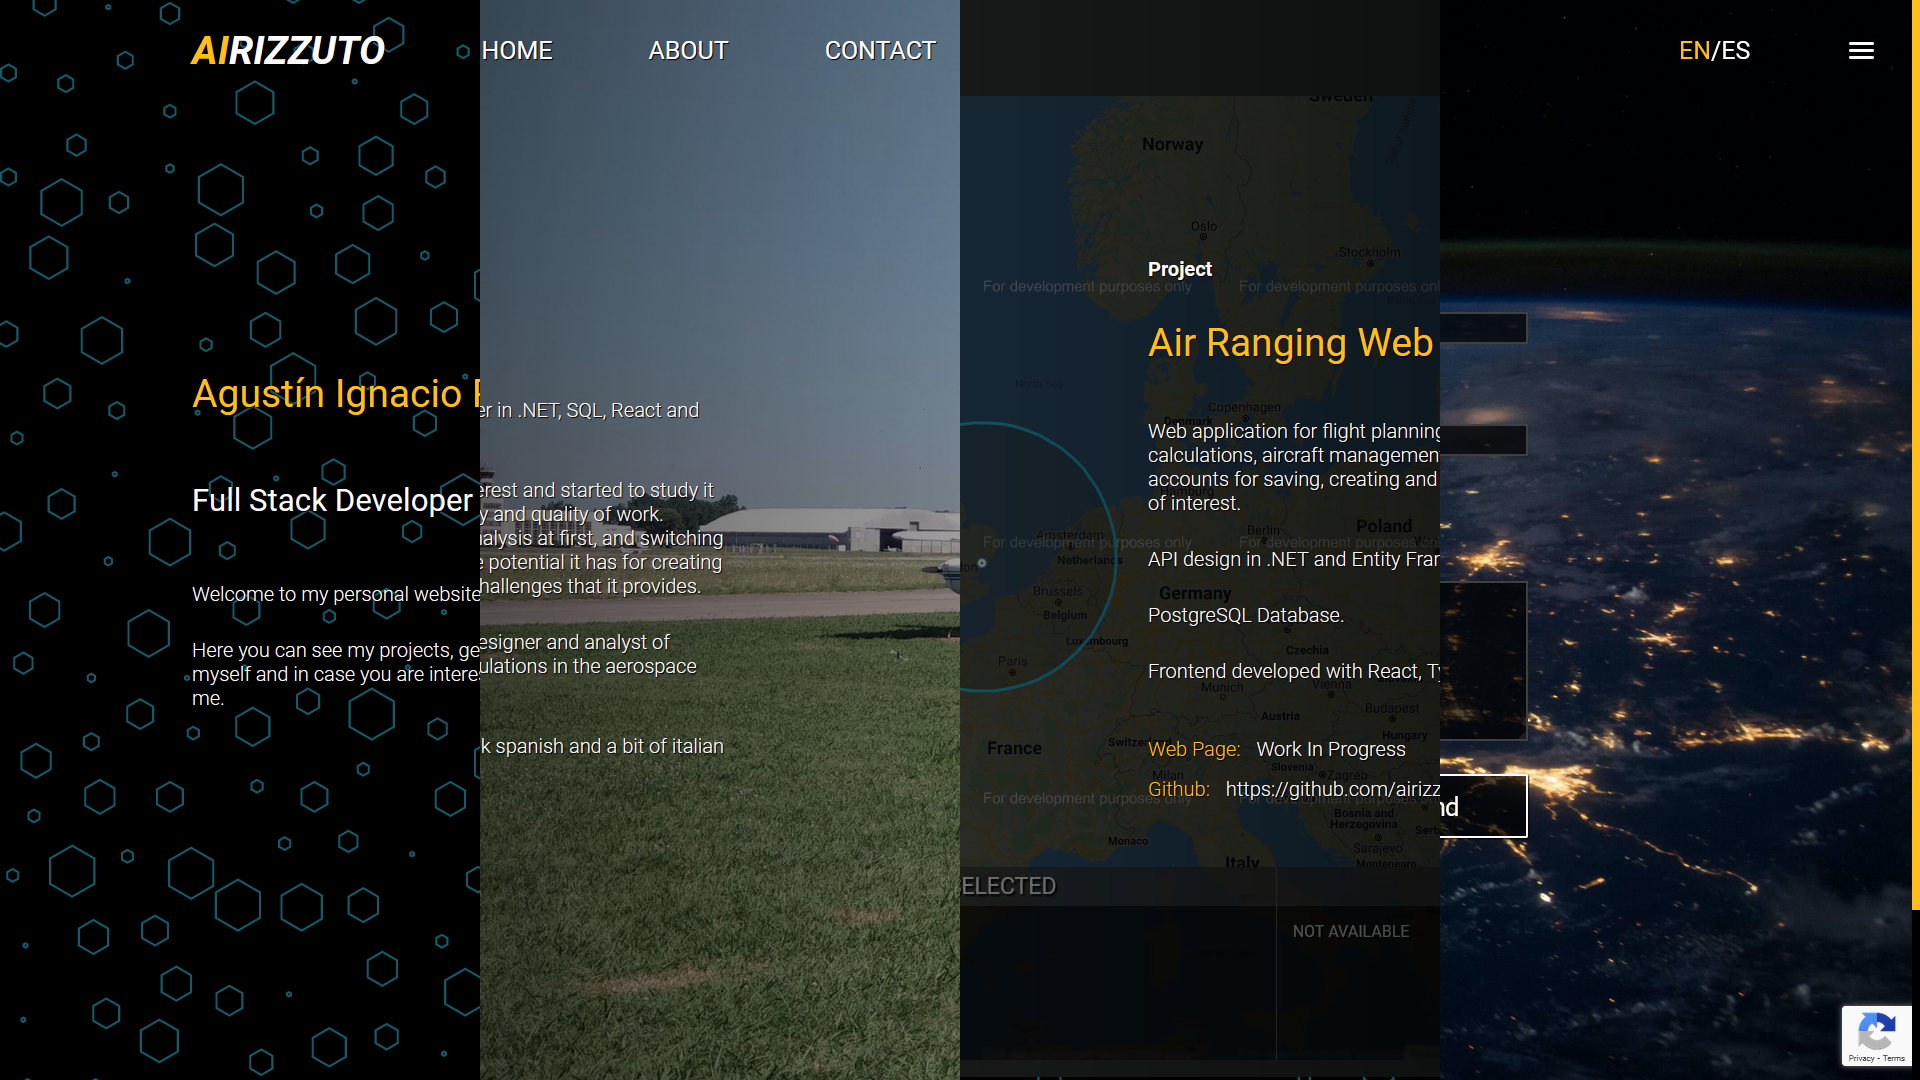
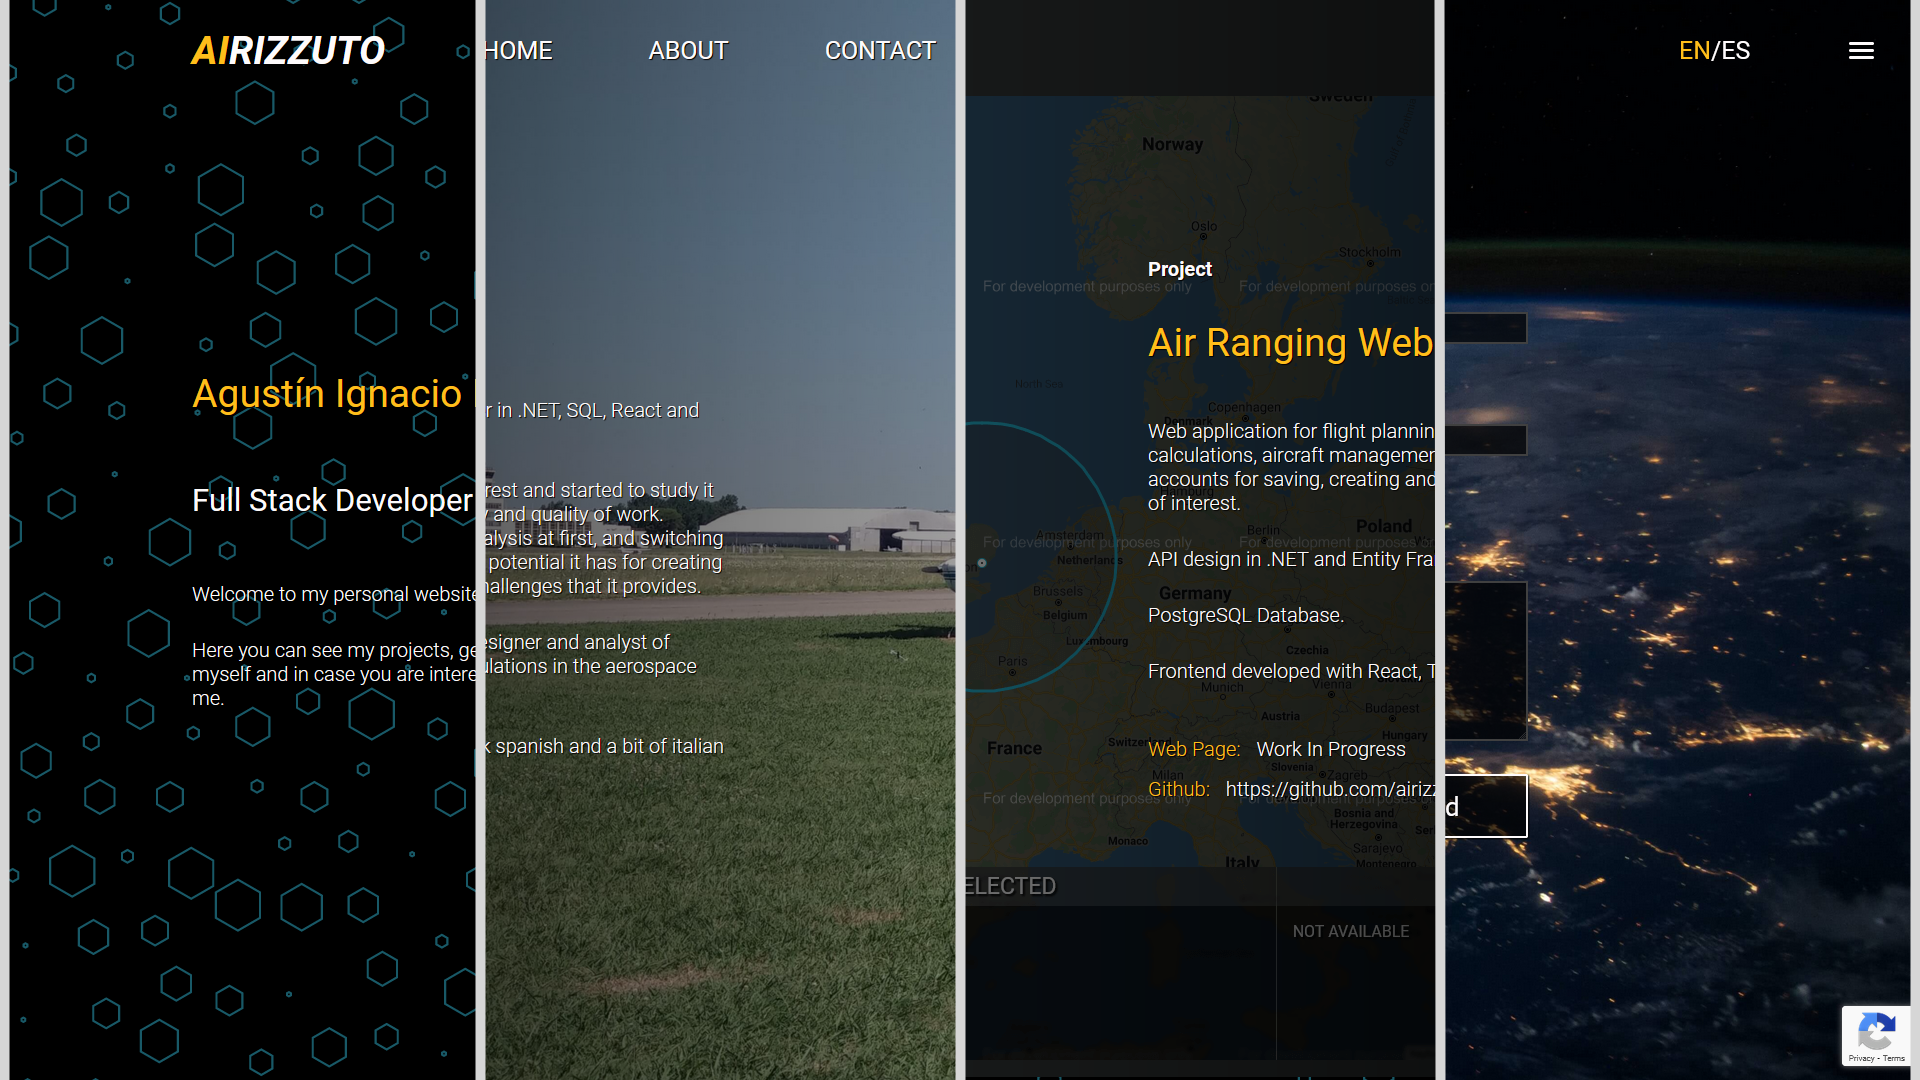
update: accents and backgrounds

Changed region(s): [[0.9688, 0.0, 1.0, 1.0], [0.0, 0.0, 0.0312, 1.0]]

diff --git a/pages/projects/FreeCodeCampFE.tsx b/pages/projects/FreeCodeCampFE.tsx
@@ -14,7 +14,7 @@ const FreeCodeCampFE = () => {
   const title = t("fcc-fe-cert.title");
 
   return (
-    <ContentWrapper image={"polygon-scatter-haikei.svg"}>
+    <ContentWrapper image={"circle-scatter-haikei.svg"}>
       <ContentPage contentAlignment='center' >
         <p className={Content.Category}>Course</p>
         <h1 className={Content.Title}

diff --git a/pages/projects/FreeCodeCampBE_API.tsx b/pages/projects/FreeCodeCampBE_API.tsx
@@ -13,7 +13,7 @@ const FreeCodeCampBE_API = () => {
   const title = t("fcc-be-api-cert.title");
 
   return (
-    <ContentWrapper image={"nasa2.jpg"}>
+    <ContentWrapper image={"polygon-scatter-haikei-5.svg"}>
       <ContentPage contentAlignment='center' >
         <p className={Content.Category}>Course</p>
         <h1 className={Content.Title}

diff --git a/styles/_colors.scss b/styles/_colors.scss
@@ -1,7 +1,7 @@
 $primary-color: hsl(330, 50%, 99%);
 $secondary-color: hsl(43, 100%, 55%);
 $secondary-color-shaded: hsl(43, 100%, 40%);
-$accent-color: #185967;
+$accent-color: #4FACF7;
 $accent2-color: hsl(147, 42%, 84%);
 $neutral-color: hsl(0, 0%, 25%);
 $background-color: #000;
